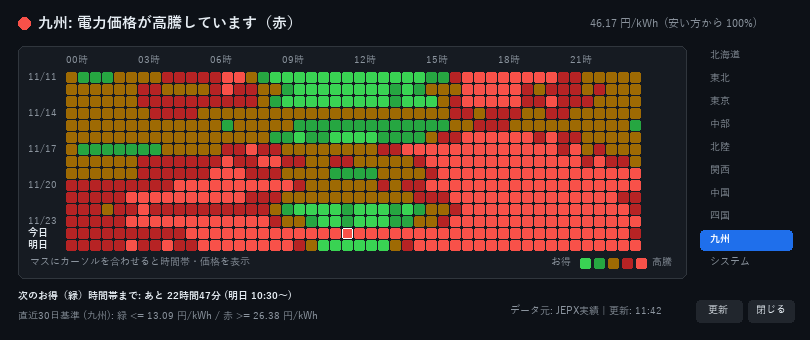
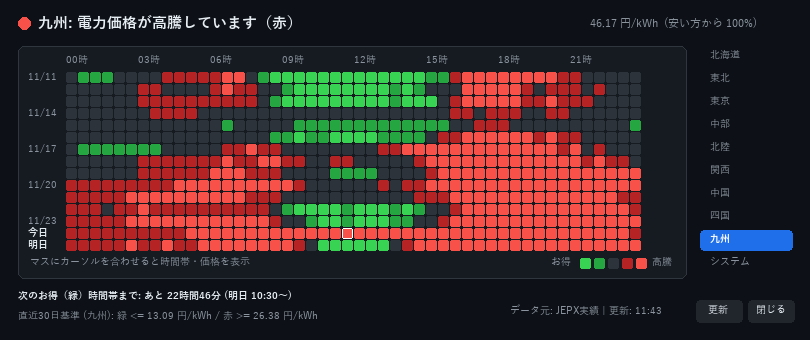
style: change neutral middle tile color from yellow to dark gray

diff --git a/popup_ui.py b/popup_ui.py
@@ -24,7 +24,7 @@ BTN_HOVER_BG = "#30363d"
 CELL_COLORS = {
     0: "#39d353",
     1: "#26a641",
-    2: "#9e6a03",
+    2: "#2d333b",
     3: "#b62324",
     4: "#f85149",
     None: "#1c2128",
